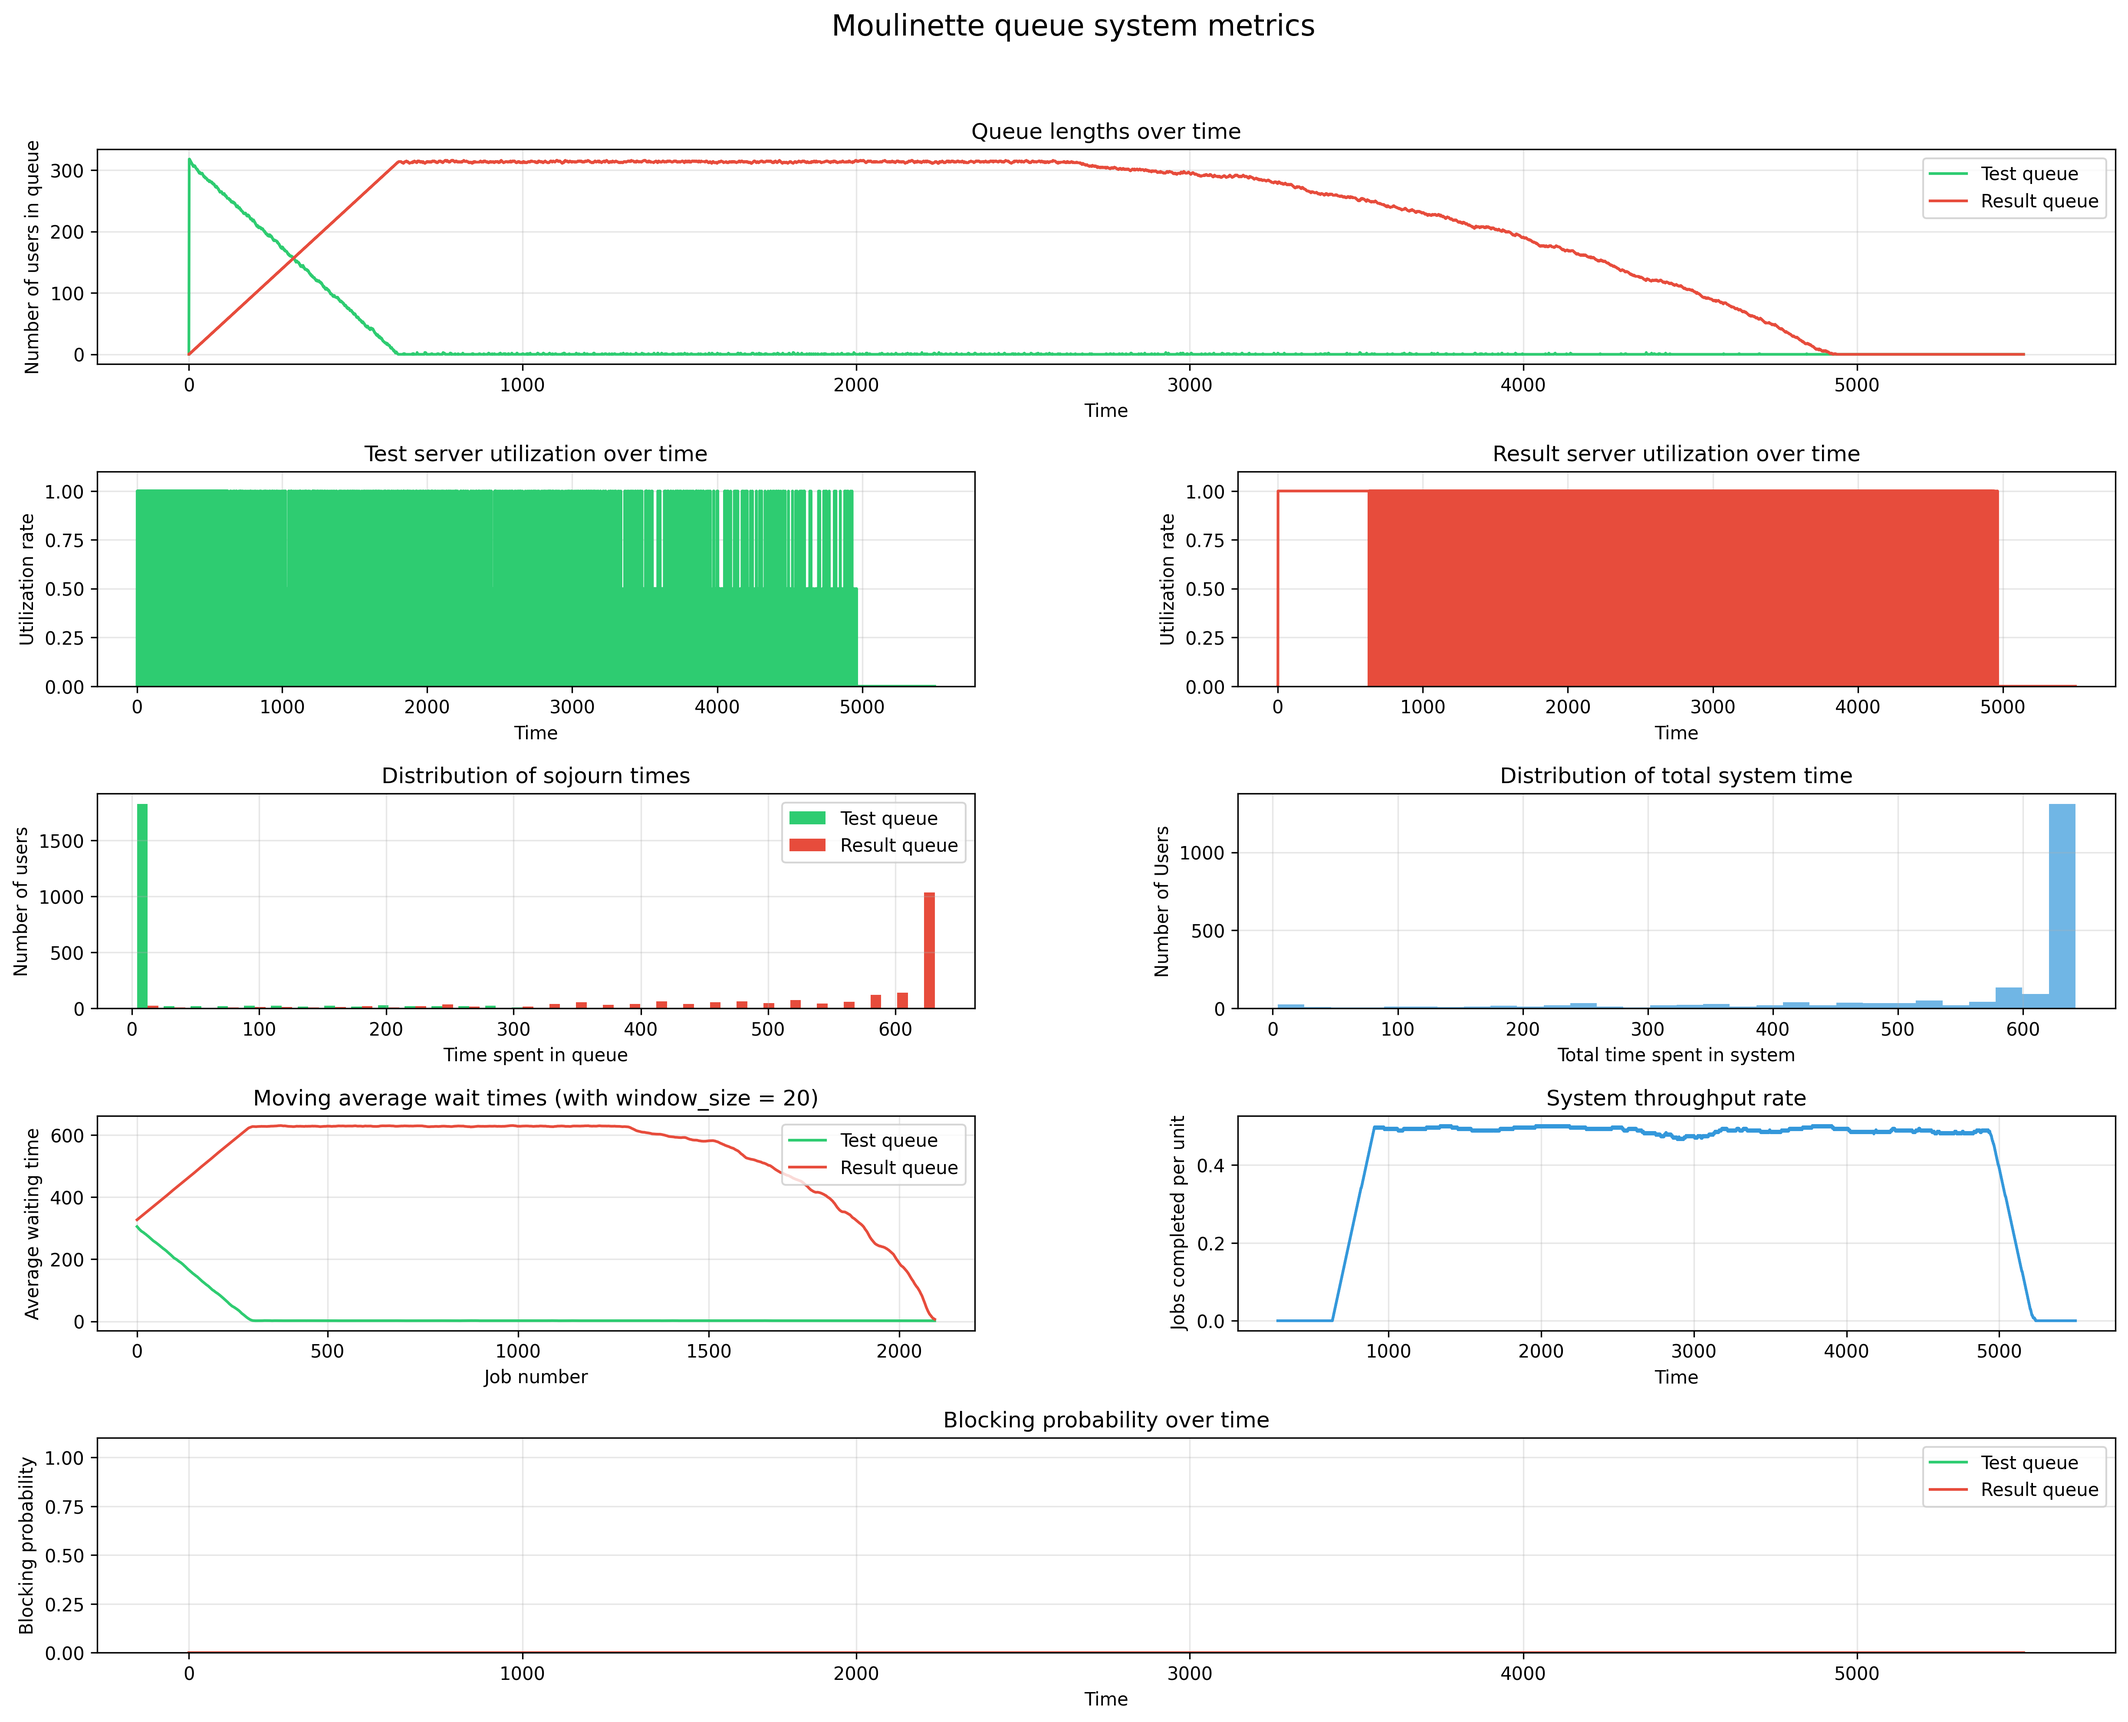
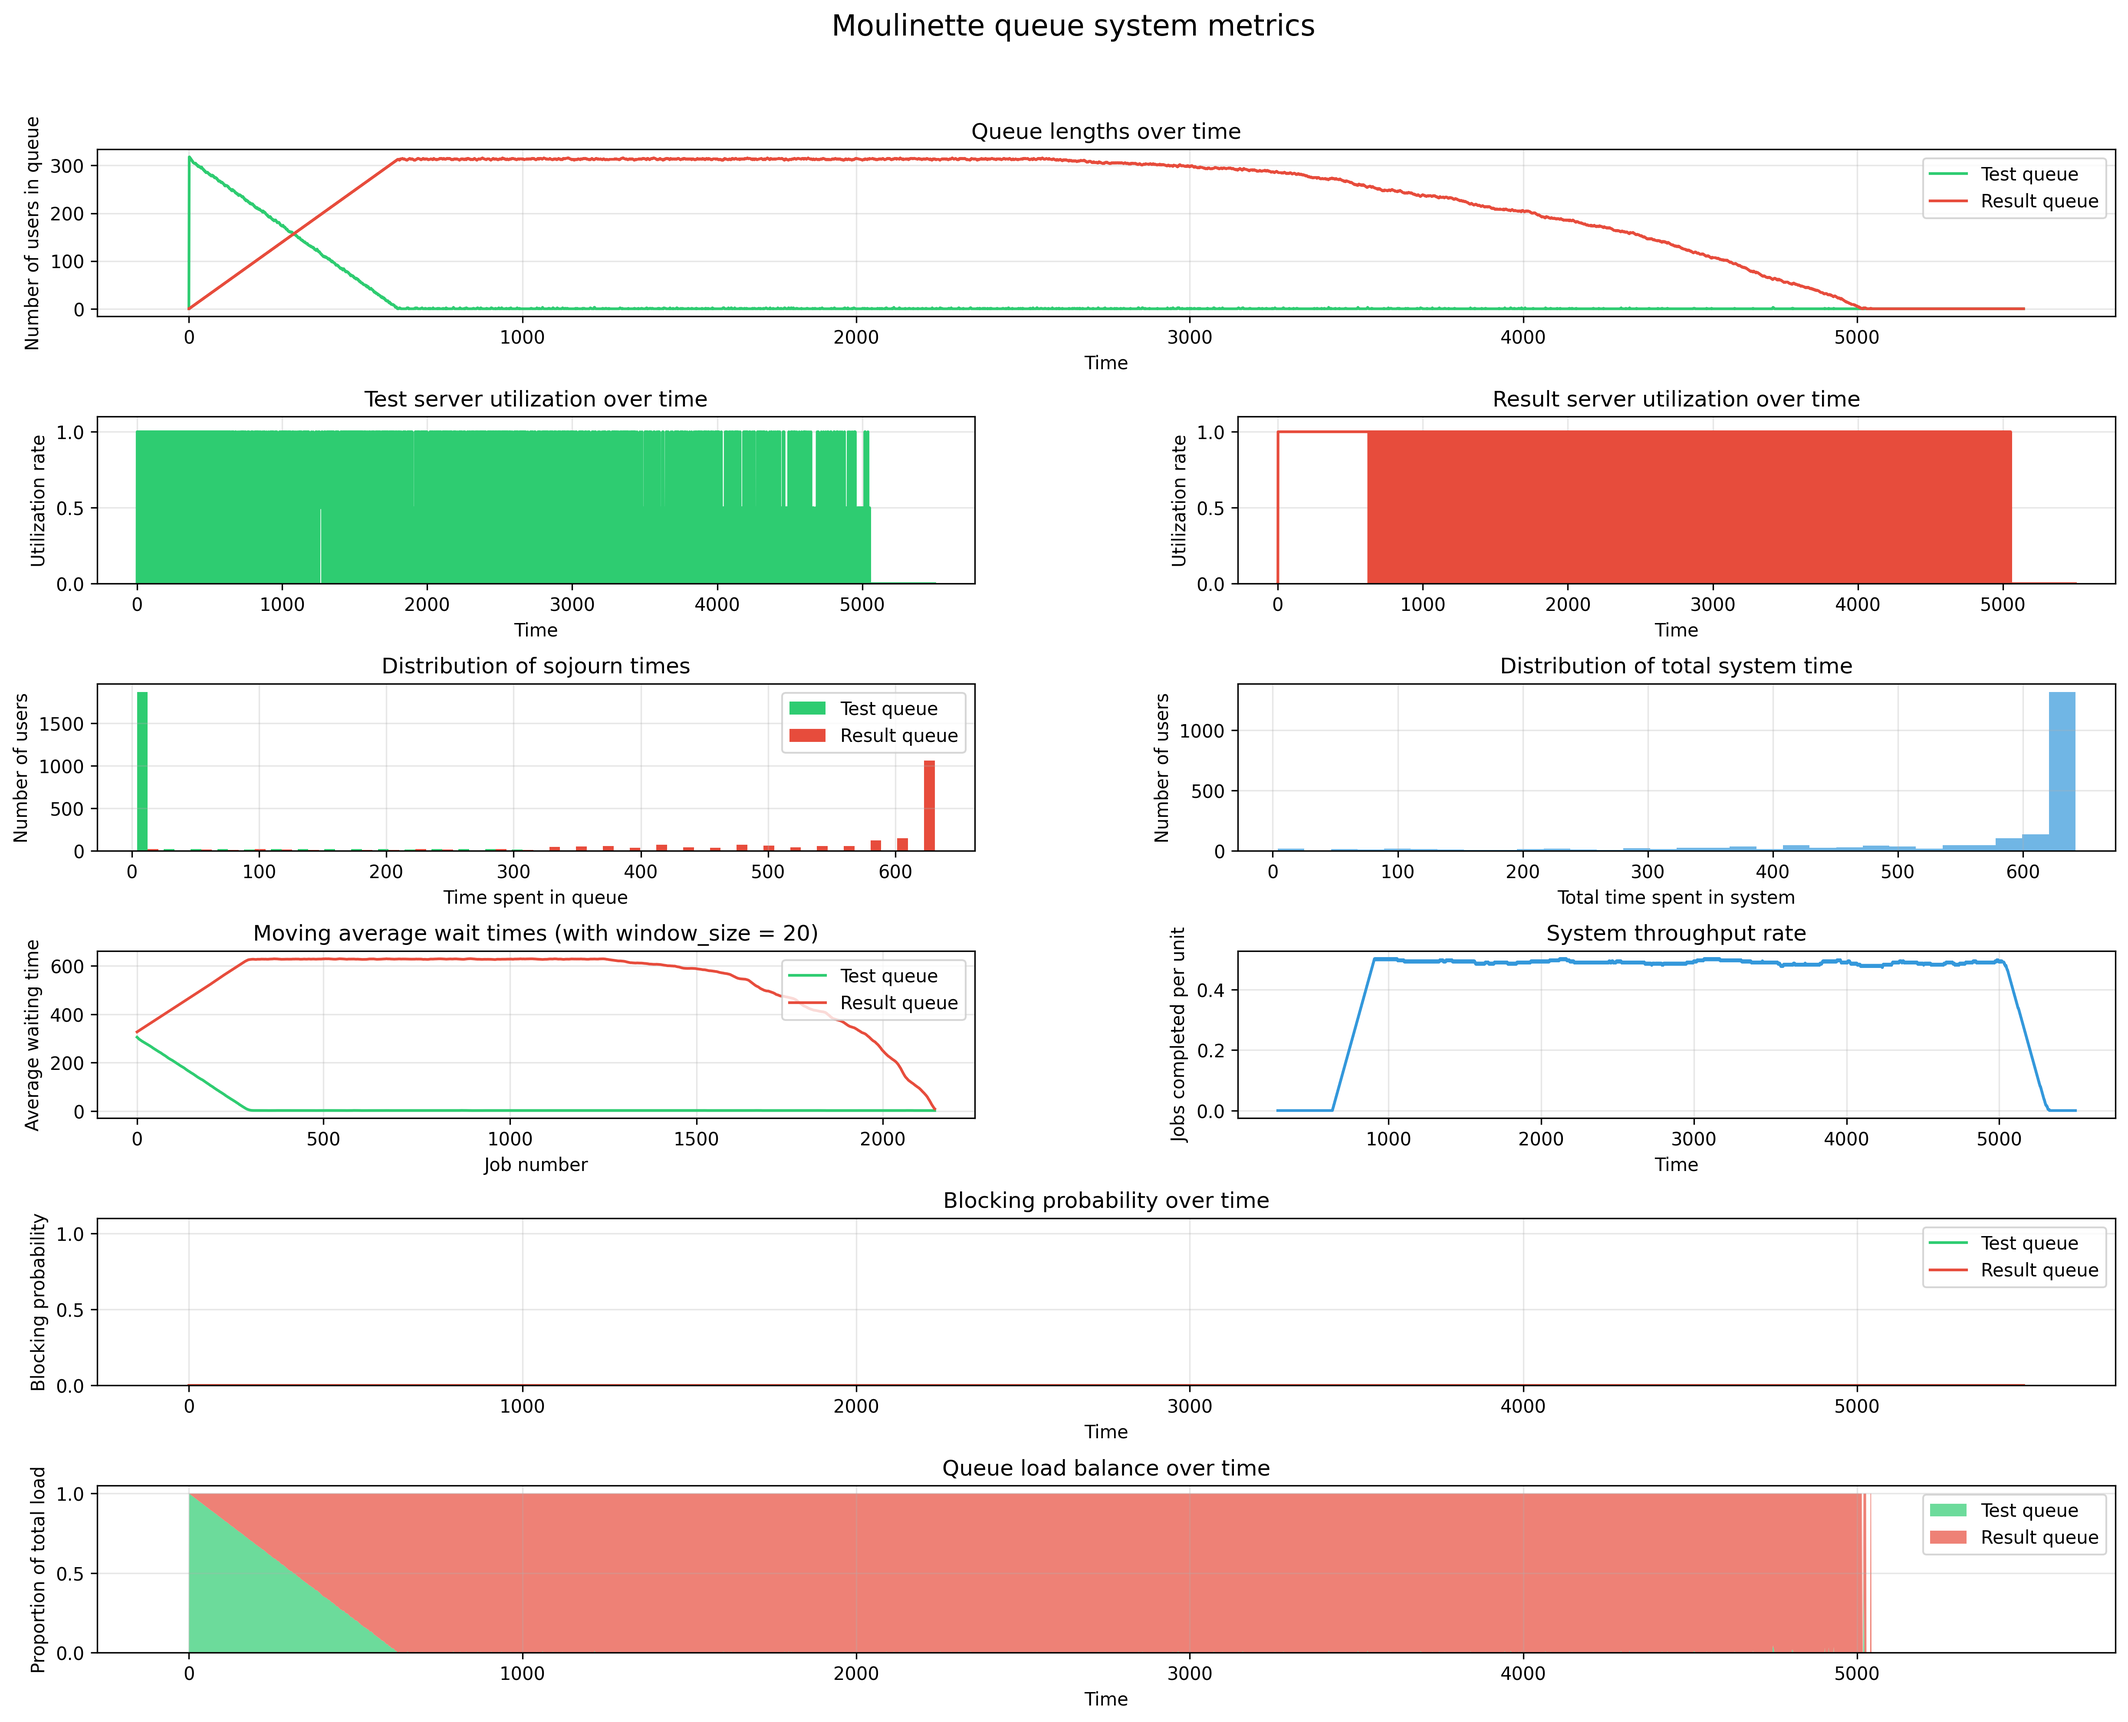
[metrics] method call fix in moulinette.py, new queue balance mode in metrics

diff --git a/queue_metrics.py b/queue_metrics.py
@@ -180,7 +180,7 @@ class QueueMetrics:
     def plot_metrics(self):
         """Generate improved plots for all metrics with better visual separation"""
         fig = plt.figure(figsize=(20, 15))
-        gs = fig.add_gridspec(5, 2, hspace=0.5, wspace=0.3)
+        gs = fig.add_gridspec(6, 2, hspace=0.6, wspace=0.3)
 
         color_test = "#2ecc71"
         color_result = "#e74c3c"
@@ -247,7 +247,7 @@ class QueueMetrics:
         ax5.hist(total_sojourn_times, color='#3498db', alpha=0.7, bins=30)
         ax5.set_title('Distribution of total system time')
         ax5.set_xlabel('Total time spent in system')
-        ax5.set_ylabel('Number of Users')
+        ax5.set_ylabel('Number of users')
         ax5.grid(True, alpha=0.3)
 
         # 6
@@ -319,6 +319,20 @@ class QueueMetrics:
         ax8.set_ylim(0, 1.1)
         ax8.legend()
 
+        # 9
+        ax9 = fig.add_subplot(gs[5, :])
+        total_load = np.array(self.test_queue_lengths) + np.array(self.result_queue_lengths)
+        test_proportion = np.array(self.test_queue_lengths) / (total_load + 1e-10)
+        result_proportion = np.array(self.result_queue_lengths) / (total_load + 1e-10)
+
+        ax9.stackplot(self.timestamps, [test_proportion, result_proportion],
+                    labels=['Test queue', 'Result queue'],
+                    colors=[color_test, color_result], alpha=0.7)
+        ax9.set_title('Queue load balance over time')
+        ax9.set_xlabel('Time')
+        ax9.set_ylabel('Proportion of total load')
+        ax9.grid(True, alpha=0.3)
+        ax9.legend()
 
         fig.suptitle('Moulinette queue system metrics', fontsize=16, y=0.95)
         plt.savefig("metrics.png", dpi=300, bbox_inches='tight')

diff --git a/moulinette.py b/moulinette.py
@@ -113,7 +113,7 @@ class Moulinette:
             yield self.env.timeout(self.process_time)
             print(f"{user} finishes testing at {self.env.now}")
 
-        self.metrics.record_departure(user_id, self.env.now)
+        self.metrics.record_test_queue_exit-(user_id, self.env.now)
 
     """
     Lance une simulation complète sur tous les utilisateurs dans la moulinette.
